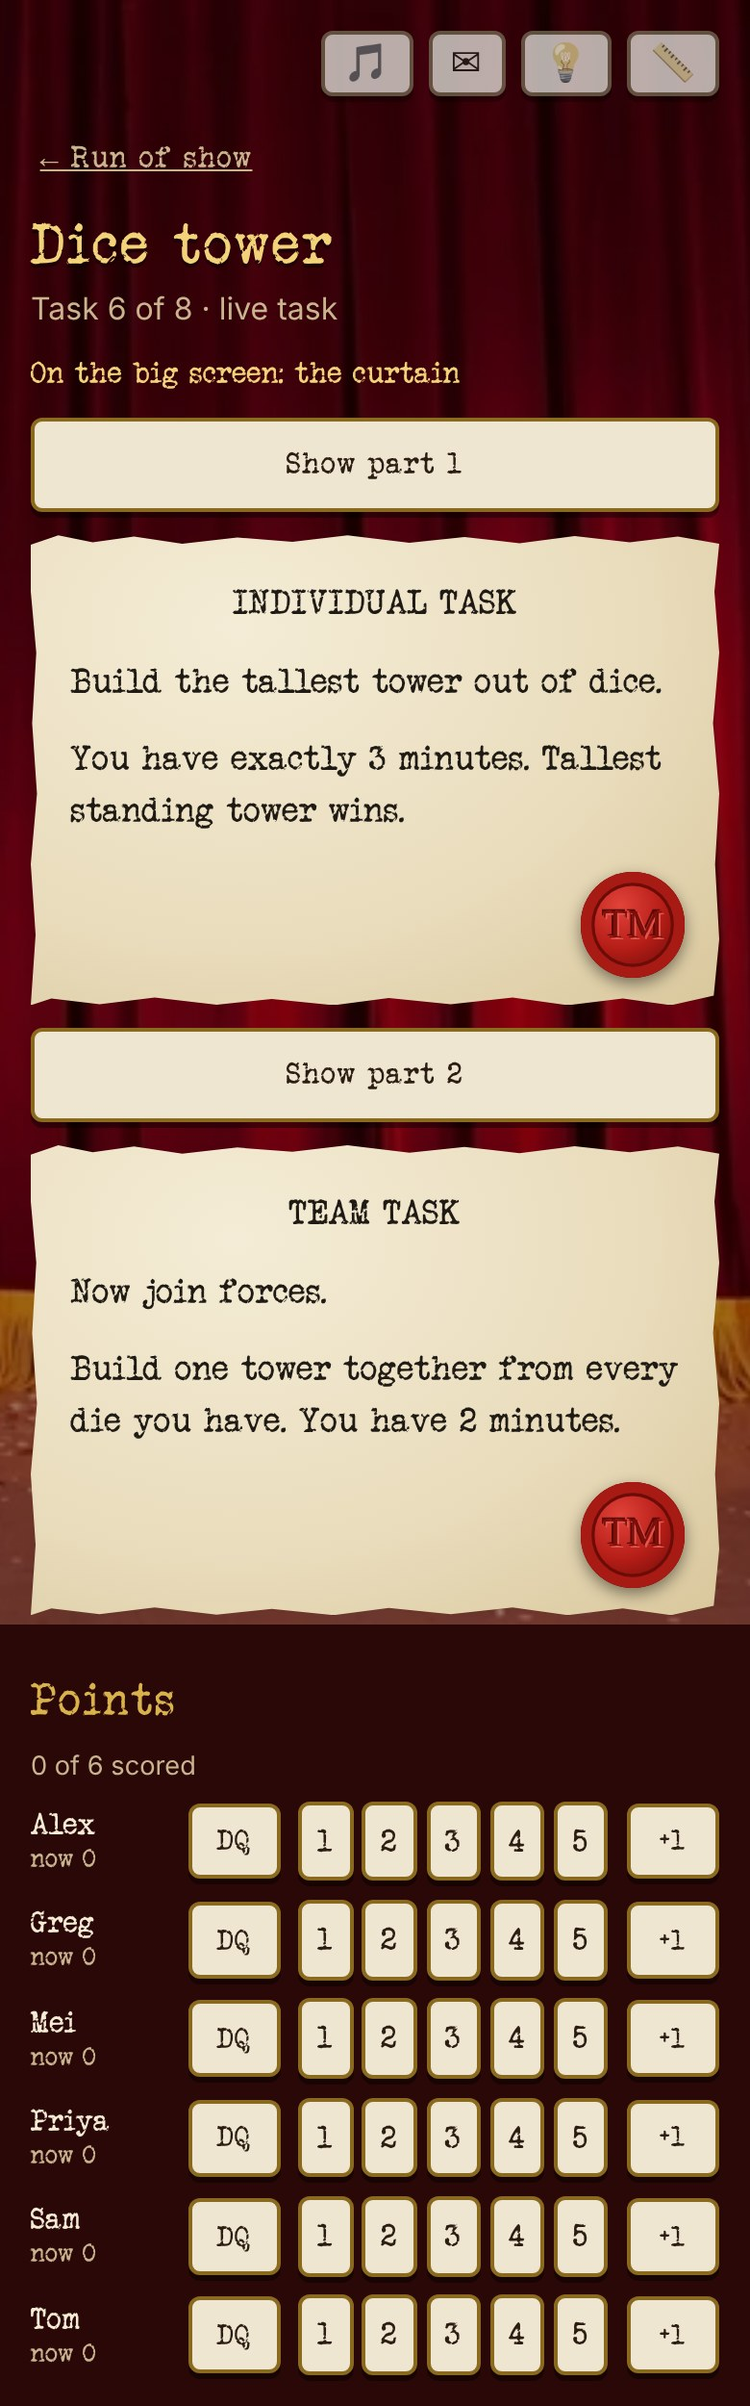
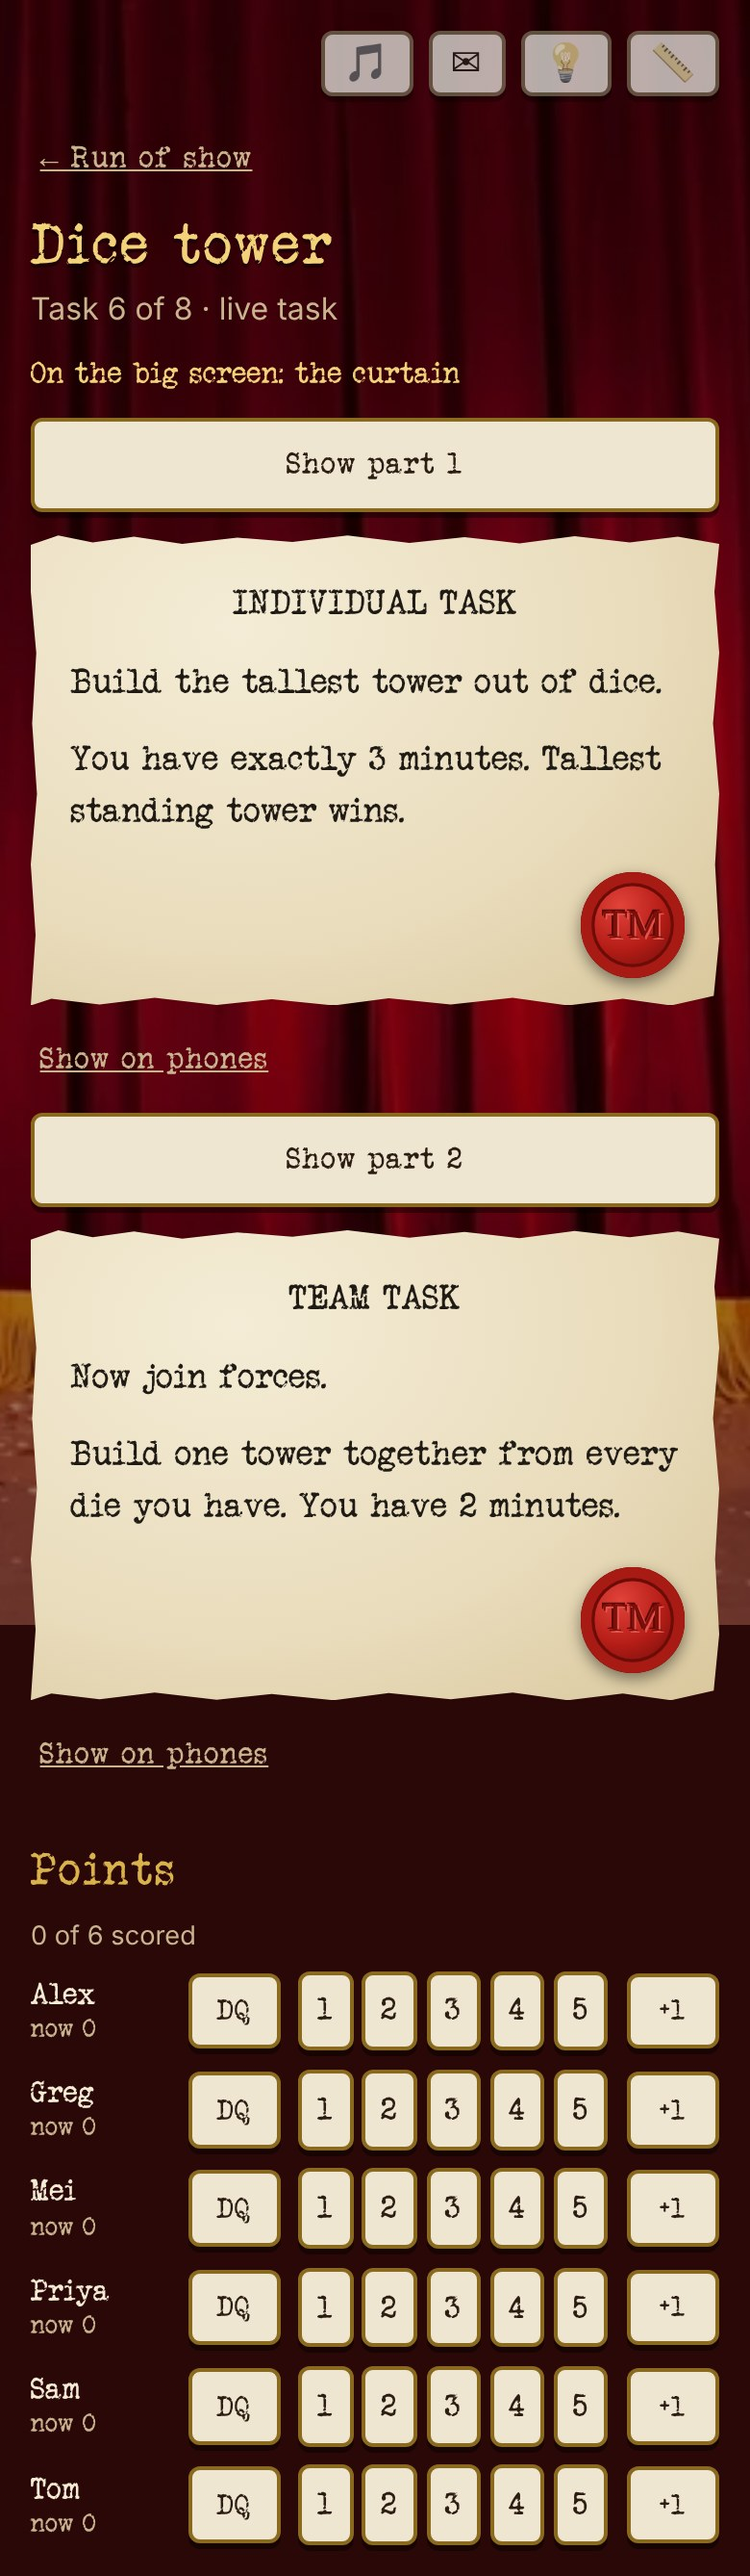
Task parts: show a live task's words on phones, apart from the big screen
A quiet "Show on phones" link under each card of a live task or the tiebreaker puts one part on every guest phone, in the To do now card, with its own heading and no word "part". The big screen's button is separate.

Claude-Session: https://claude.ai/code/session_017EZXwv2HsaVFnzxRVSaLaw

diff --git a/src/scoreboard/TaskPage.tsx b/src/scoreboard/TaskPage.tsx
@@ -6,7 +6,7 @@ import { showHaul, standing } from "../games/prize/data";
 import { setGame } from "../session";
 import { SongStrip } from "../SongStrip";
 import type { GameId, Session } from "../types";
-import { lowerCurtain, setTiebreakerWinner, showTaskText, startTask } from "./data";
+import { lowerCurtain, setTiebreakerWinner, showOnPhones, showTaskText, startTask, takeDownPhones } from "./data";
 import { Points } from "./Points";
 import { activeTaskId, list, scored, titleOf } from "./tasks";
 import { partsOf, TaskTextCard, TIEBREAKER_TYPE, tiebreakerWords, typeOf } from "./TaskText";
@@ -45,7 +45,7 @@ function ShowTask({ code, session, task, gold, onShown }: { code: string; sessio
  * choice (and so is putting none up). Pressed in while that part is on the big screen; another part swaps it, and the
  * pressed one lowers the curtain. "Part N" is for the host: the cards, the big screen and the phones never say it.
  */
-function PartCards({ code, session, task, parts }: { code: string; session: Session; task: string; parts: { type: string; text: string }[] }) {
+function PartCards({ code, session, task, parts, phones }: { code: string; session: Session; task: string; parts: { type: string; text: string }[]; phones: boolean }) {
   const d = session.display;
   const up = d?.step === "tasktext" && d.task === task ? d.part ?? 0 : undefined;
   return (
@@ -55,9 +55,22 @@ function PartCards({ code, session, task, parts }: { code: string; session: Sess
           <button className={up === i ? "pressed-in" : undefined} aria-pressed={up === i}
             onClick={() => void (up === i ? lowerCurtain(code) : showTaskText(code, task, i))}>Show part {i + 1}</button>
           <TaskTextCard type={p.type} text={p.text} />
+          {phones && <PhonesLink code={code} session={session} task={task} part={i} />}
         </Fragment>
       ))}
     </>
+  );
+}
+
+/**
+ * "Show on phones" under a card of a live task (or the tiebreaker): a quiet link, since it's rare, and apart from the
+ * big screen's button. One part at a time is on the phones; while this one is, it says so and takes it down.
+ */
+function PhonesLink({ code, session, task, part }: { code: string; session: Session; task: string; part: number }) {
+  const up = session.phoneText?.task === task && (session.phoneText.part ?? 0) === part;
+  return (
+    <button type="button" className="link phones-link" aria-pressed={up}
+      onClick={() => void (up ? takeDownPhones(code) : showOnPhones(code, task, part))}>{up ? "Showing on phones · Take down" : "Show on phones"}</button>
   );
 }
 
@@ -112,7 +125,8 @@ export function TaskPage({ code, session, id, onBack, onLight }: {
       {task.song && <SongStrip code={code} session={session} song={task.song} />}
       {task.description && <p className="muted small sb-note">{task.description}</p>}
       {task.text && !multi && <TaskTextCard type={typeOf(task)} text={task.text} />}
-      {multi && <PartCards code={code} session={session} task={id} parts={parts} />}
+      {task.text && !multi && !task.game && <PhonesLink code={code} session={session} task={id} part={0} />}
+      {multi && <PartCards code={code} session={session} task={id} parts={parts} phones={!task.game} />}
       {startable && (
         <button className={!scored(task) && !textFirst ? "big" : undefined} onClick={() => void beginTask(code, session, id)}>
           ▶ Start {titleOf(task)}
@@ -197,7 +211,8 @@ export function TiebreakerPage({ code, session, onBack }: { code: string; sessio
       {tb?.song && <SongStrip code={code} session={session} song={tb.song} />}
       {tb?.description && <p className="muted small sb-note">{tb.description}</p>}
       {tb?.text && !tbMulti && <TaskTextCard type={tb.type || TIEBREAKER_TYPE} text={tb.text} />}
-      {tbMulti && <PartCards code={code} session={session} task="tiebreaker" parts={tbParts} />}
+      {tb?.text && !tbMulti && <PhonesLink code={code} session={session} task="tiebreaker" part={0} />}
+      {tbMulti && <PartCards code={code} session={session} task="tiebreaker" parts={tbParts} phones />}
       {/* Fixed to the bottom, so whoever says it first is one tap away however far the story has scrolled. */}
       <div className="sb-won-bar">
         <p className="muted small">Tap who won.</p>

diff --git a/src/Play.tsx b/src/Play.tsx
@@ -4,7 +4,7 @@ import { presentedOf, prizePhotos, prizePlanned } from "./games/prize/data";
 import { PrizeArea } from "./games/prize/PlayerView";
 import { secretTasksPlanned, useMyTask } from "./games/secretTasks/data";
 import { SecretEnvelope } from "./games/secretTasks/PlayerView";
-import { GuestCard, GuestContext, GuestHead, NameTag, PUT_AWAY, Status, TodoList, afterwards, leftToDo, taskOn, type TodoRow } from "./guest";
+import { GuestCard, GuestContext, GuestHead, NameTag, PUT_AWAY, QuoteLines, Status, TodoList, afterwards, leftToDo, phoneWordsOf, taskOn, type TodoRow } from "./guest";
 import { QrScannerModal } from "./QrScannerModal";
 import { Headshot, HeadshotCaption } from "./scoreboard/Headshot";
 import { JoinError, SameNameError, TakenError, askToMove, cancelMove, extractCode, joinAsContestant, joinSession, sameName, store, useSession, useUid } from "./session";
@@ -118,10 +118,12 @@ function Guest({ code, uid, session, onLeave }: { code: string; uid: string; ses
   const step = needsHeadshot ? Number(!!checkin?.confirmed) + 1 : steps;
   const now = (line: string) => justIn ? `You're in! ${line}` : line;
 
+  const phoneWords = phoneWordsOf(session);
   let status: React.ReactNode = null;
   if (checkingIn) status = <Status>Checking in · step {step} of {steps}</Status>;
   else if (watching) status = <Status>You're watching tonight. Enjoy the show.</Status>;
   else if (showGame) status = null; // the game says where the guest stands
+  else if (phoneWords) status = <Status>Here's the task. Read it, then put your phone away.</Status>;
   else if (showPrize && open === "prize" && saved.length && !presented && !prizeBusy) status = <Status>{afterwards("Prize photos sent.", left)}</Status>;
   else if (left || showPrize || showEnvelope) status = <Status>{now(left ? leftToDo(left) : PUT_AWAY)}</Status>;
   else if (!id) status = <Status>Waiting for the host to add you to the scoreboard.</Status>;
@@ -159,6 +161,9 @@ function Guest({ code, uid, session, onLeave }: { code: string; uid: string; ses
           </>
         ) : <GuestHead title={name} line={partyLine} />}
         {status}
+        {phoneWords && !checkingIn && (
+          <GuestCard key="phone-words" label={phoneWords.label} title={phoneWords.title}><QuoteLines lines={phoneWords.lines} /></GuestCard>
+        )}
         {checkingIn && needsHeadshot && <Headshot key="headshot" code={code} uid={uid} id={id!} session={session} />}
         {/* Kept mounted while a row is open, so a photo on its way up isn't dropped. */}
         {game && !watching && (

diff --git a/src/guest.tsx b/src/guest.tsx
@@ -1,5 +1,6 @@
 import { createContext, useContext, type CSSProperties, type ReactNode } from "react";
 import { GAMES } from "./games";
+import { headingOf, partsOf, tiebreakerWords } from "./scoreboard/TaskText";
 import { activeTaskId, sorted } from "./scoreboard/tasks";
 import type { Session } from "./types";
 
@@ -42,6 +43,27 @@ export function taskOn(session: Session): GuestFrame["task"] {
   };
 }
 
+/**
+ * The words the host put on every phone, during a live task or the tiebreaker: one part, with its own heading, the
+ * task's name and its lines as written. The phone never says "part": the heading is the part's own type.
+ */
+export function phoneWordsOf(session: Session) {
+  const up = session.phoneText;
+  if (!up) return undefined;
+  const board = session.scoreboard;
+  const tiebreaker = up.task === "tiebreaker";
+  const part = partsOf(tiebreaker ? board?.tiebreaker && tiebreakerWords(board.tiebreaker) : board?.tasks?.[up.task])[up.part ?? 0];
+  if (!part) return undefined;
+  const tasks = sorted(board?.tasks);
+  const i = tasks.findIndex(([id]) => id === up.task);
+  const name = (tiebreaker ? board?.tiebreaker?.name?.trim() || "Tiebreaker task" : board?.tasks?.[up.task]?.name?.trim()) || undefined;
+  return {
+    label: `${tiebreaker ? "Tiebreaker" : i >= 0 ? `Task ${i + 1} of ${tasks.length}` : "Task"} · ${headingOf(part.type) || "live task"}`,
+    title: name && name[0]!.toUpperCase() + name.slice(1),
+    lines: part.text.split("\n").map((l) => l.trim()).filter(Boolean),
+  };
+}
+
 /** The top of every guest screen: a title and the party line under it. */
 export function GuestHead({ title, line }: { title: ReactNode; line?: ReactNode }) {
   return (
@@ -69,6 +91,10 @@ export function GuestCard({ label, title, children }: { label: string; title?: R
 
 /** A task's words on a card, exactly as written, in quotes. */
 export const Quote = ({ text }: { text: string }) => <p className="quote">“{text}”</p>;
+
+/** A longer text in quotes, a paragraph a line: the quote opens on the first and closes on the last. */
+export const QuoteLines = ({ lines }: { lines: string[] }) =>
+  <>{lines.map((l, i) => <p className="quote" key={i}>{i === 0 && "“"}{l}{i === lines.length - 1 && "”"}</p>)}</>;
 
 /**
  * A "HELLO my name is" name tag: on the pile a guest finds their name in at check-in, and (`mine`)

diff --git a/src/scoreboard/data.ts b/src/scoreboard/data.ts
@@ -258,5 +258,12 @@ export const setTiebreakerWinner = (code: string, contestant: string | null) =>
 export const editTiebreaker = (code: string, name: string, description: string, song: string, words: TaskWords) =>
   update(at(code, "tiebreaker"), { name: name.trim() || null, description: description.trim() || null, song: song || null, ...wordsOf(words) });
 
+/** Puts a live task's words (a task's id, or "tiebreaker"; part `part`, the first unless said) on every guest's phone, apart from the big screen. */
+export const showOnPhones = (code: string, task: string, part = 0) =>
+  update(ref(db(), `sessions/${code}`), { phoneText: { task, ...(part && { part }) } });
+
+/** Takes the words off the guests' phones. */
+export const takeDownPhones = (code: string) => update(ref(db(), `sessions/${code}`), { phoneText: null });
+
 /** Puts a task's text (a task's id, or "tiebreaker") on the big screen, on the paper task card: part `part` of it, the first unless said. */
 export const showTaskText = (code: string, task: string, part = 0) => setDisplay(code, { step: "tasktext", task, ...(part && { part }) });

diff --git a/docs/guest-shots/shots.tsx b/docs/guest-shots/shots.tsx
@@ -118,6 +118,9 @@ function build() {
     // A task with two parts: on the host's phone with nothing up, with the second part up, and with it on the big screen; and its ✎ page.
     case "host-parts-up": case "tv-parts": set("display", { step: "tasktext", task: "t6", part: 1 }); set("begun", true); break;
     case "host-parts": case "host-parts-edit": set("begun", true); break;
+    // The host put part 2 on every phone while part 1 is still on the big screen: the two are separate.
+    case "host-parts-phones": set("display", { step: "tasktext", task: "t6" }); set("phoneText", { task: "t6", part: 1 }); set("begun", true); break;
+    case "task-parts-phone": picked(); q.set("later", "1"); set("phoneText", { task: "t6", part: 1 }); set("begun", true); break;
     case "checkin-rules": case "checkin-pile": break;
     case "checkin-confirm": case "checkin-headshot": case "checkin-list": break;
   }

diff --git a/src/types.ts b/src/types.ts
@@ -370,6 +370,8 @@ export interface Session {
   showDownload?: boolean;
   /** The host remote's "Show QR code" is open: the big screen puts the join QR above its corner code too. */
   showQr?: boolean;
+  /** A live task's words (a task's id, or "tiebreaker", and which part) the host put on every guest's phone, until the host takes them down. Apart from the big screen's `display`. */
+  phoneText?: { task: string; part?: number };
   /** A useless conversion the host put on the big screen. It covers whatever was there until the host takes it down or puts something else up. */
   conversion?: ShownConversion;
   /** How the 📏 converter explains a result: metric (the default) or imperial, in feet and inches. */

diff --git a/src/styles.css b/src/styles.css
@@ -1240,6 +1240,7 @@ button.help-q:active { transform: none; box-shadow: none; }
 /* a part of a task's words in its ✎ (host remote only: the word "part" never reaches the big screen, a phone or the PDF) */
 .sb-part { display: grid; gap: 0.6rem; }
 .sb-part > .link, .extra-open > .link { justify-self: start; }
+.phones-link { justify-self: start; }
 .part-label { margin: 0; font-size: 0.75rem; letter-spacing: 0.08em; text-transform: uppercase; color: var(--muted); }
 .sb-type { display: grid; gap: 0.5rem; }
 .sb-type .choices button { flex: 1 1 5rem; }

diff --git a/src/scoreboard/TaskText.tsx b/src/scoreboard/TaskText.tsx
@@ -10,7 +10,7 @@ const GAME_TYPES: Partial<Record<TaskGame, string>> = { headshots: "Headshot", p
 export const TIEBREAKER_TYPE = "Tiebreaker";
 
 /** "Individual" → "Individual task", as it heads the card (in capitals there). "Arrival task" isn't doubled. */
-const headingOf = (type: string | undefined) => {
+export const headingOf = (type: string | undefined) => {
   const t = type?.trim().replace(/\s+task$/i, "");
   return t ? `${t} task` : "";
 };

diff --git a/src/reset.ts b/src/reset.ts
@@ -24,6 +24,7 @@ export async function resetScores(code: string, session: Session, guests: boolea
     game: null,
     display: { step: "curtain" },
     conversion: null,
+    phoneText: null,
     "light/got": null,
     "games/box/round": null,
     "games/noisemaster/round": null,

diff --git a/docs/style-guide.md b/docs/style-guide.md
@@ -203,7 +203,7 @@ See: [guest-home-waiting.jpg](screens/guest-home-waiting.jpg), [guest-home-prize
   7. Quiet links at the bottom (`.run-links`): "Play a game that's not on the list" (or "Back to [BLANK] in a Box" while one is on), "Plan the party", "Show QR code", "Party settings" (the download button, "Reset scores…" and Disconnect). "Reset scores…" opens in place in an `.extra-open` panel: a **Clears** sentence and a muted **Keeps** sentence, counted for the party, an "Also remove guests" switch (off to start), then a paper button named for what it does and a `confirm()`. Never gold: a reset is never the night's next step. After it, the big screen goes back to the curtain. See: [host-reset-scores.jpg](screens/host-reset-scores.jpg).
 - **One task page for every task** (`TaskPage.tsx`), live task or app game: "← Run of show", the task as the `h1` (`.task-head`) with "Task 4 of 8 · live task" under it, the `.on-screen` line, then:
   - gold **"Show the task"** when it has text: putting the words up is usually what comes next. While they're up it's pressed in (`button.big.pressed`: down 2px, inset shadow, a little darker), and tapping it again lowers the curtain. On an app game the gold moves on to the game's next step once the words have been up;
-  - a task with **parts** (a task's text in several pieces, each with its own heading, like an Individual part then a Team part) has no "Show the task". Each part's card gets its own paper **"Show part 1"**, **"Show part 2"** button above it, and none is gold: putting a part up is the host's choice, and so is putting none up. The one on the big screen is pressed in (`.pressed-in`); tapping another swaps the big screen to that part, and tapping the pressed one lowers the curtain. The `.on-screen` line says "the task, part 2". **"Part N" is host-remote wording only**: the cards, the big screen, guests' phones and the PDF never say it, only each part's own heading. See: [task-parts-host.jpg](screens/task-parts-host.jpg), [task-parts-host-up.jpg](screens/task-parts-host-up.jpg), [task-parts-main.jpg](screens/task-parts-main.jpg);
+  - a task with **parts** (a task's text in several pieces, each with its own heading, like an Individual part then a Team part) has no "Show the task". Each part's card gets its own paper **"Show part 1"**, **"Show part 2"** button above it, and none is gold: putting a part up is the host's choice, and so is putting none up. The one on the big screen is pressed in (`.pressed-in`); tapping another swaps the big screen to that part, and tapping the pressed one lowers the curtain. The `.on-screen` line says "the task, part 2". **"Show on phones"** is a quiet link (`.link.phones-link`) under each card of a live task or the tiebreaker, apart from the big-screen button: one part at a time goes on every guest phone, and while it is the link reads "Showing on phones · Take down". It is rare, so it never has a button's weight. On the phone the words come as a "To do now" card (`phoneWordsOf`), labelled "Task 6 of 8 · Team task" (the part's own heading), the name as the title, the lines in quotes a paragraph a line (`QuoteLines`), and the status line says "Here's the task. Read it, then put your phone away." See: [task-parts-host-phones.jpg](screens/task-parts-host-phones.jpg), [guest-task-parts-phone.jpg](screens/guest-task-parts-phone.jpg). **"Part N" is host-remote wording only**: the cards, the big screen, guests' phones and the PDF never say it, only each part's own heading. See: [task-parts-host.jpg](screens/task-parts-host.jpg), [task-parts-host-up.jpg](screens/task-parts-host-up.jpg), [task-parts-main.jpg](screens/task-parts-main.jpg);
   - the song strip (`SongStrip.tsx`, `.sb-song`: "♪ title ▶ 2:40", a small remote for the jukebox), the host's note, and the task card to read from;
   - for an app game, its own controls, unchanged: gold "First up: Sam →", the running order, "◫ Show everyone". A contestant on the big screen gets their own controls a step inside, and lowering the curtain comes back here. Once everyone has been shown, the gold button gives way to a muted "All 5 shown." An app game that isn't on yet has "▶ Start Photos: best costume" (gold until it has points);
   - **Points**, always open at the bottom (`Points.tsx`), and once everyone has points, gold "Done: back to Run of show →".

diff --git a/docs/screens/README.md b/docs/screens/README.md
@@ -131,6 +131,8 @@ Scoreboard (taken on 2026-10-12, from the real components with made-up sessions;
 | `task-parts-host.jpg` | A task with two parts: "Dice tower" with a paper "Show part 1" over its Individual card and "Show part 2" over its Team card, none gold, nothing up yet (2026-10-18) |
 | `task-parts-host-up.jpg` | The same with part 2 on the big screen: "On the big screen: the task, part 2", "Show part 2" pressed in (2026-10-18) |
 | `task-parts-main.jpg` | The big screen with part 2 up: only the TEAM TASK card, no word "part" (2026-10-18) |
+| `task-parts-host-phones.jpg` | The same task with part 1 on the big screen and part 2 on the phones, separately: "Show part 1" pressed in, and the quiet link under part 2 reading "Showing on phones · Take down" (2026-10-18) |
+| `guest-task-parts-phone.jpg` | A guest's phone with part 2 up: "Here's the task. Read it, then put your phone away.", the "To do now" card "Task 6 of 8 · Team task", Dice tower, the words in quotes; no "part" anywhere (2026-10-18) |
 | `task-parts-edit.jpg` | The ✎ page with "Task text" open on a two-part task: PART 1 and PART 2 each with their type and text, "✕ Remove this part", "+ Add a part" (2026-10-18) |
 | `task-page-host-app-game.jpg` | An app game's page (Photos: best costume) with entries coming in: "Task 2 of 8 · app game", gold "First up: Sam →", Points at the bottom (2026-10-18) |
 | `task-page-host-points-done.jpg` | Everyone shown and scored: "All 5 shown." with "◫ Show everyone", Points with Priya's +1, gold "Done: back to Run of show →" (2026-10-18) |
